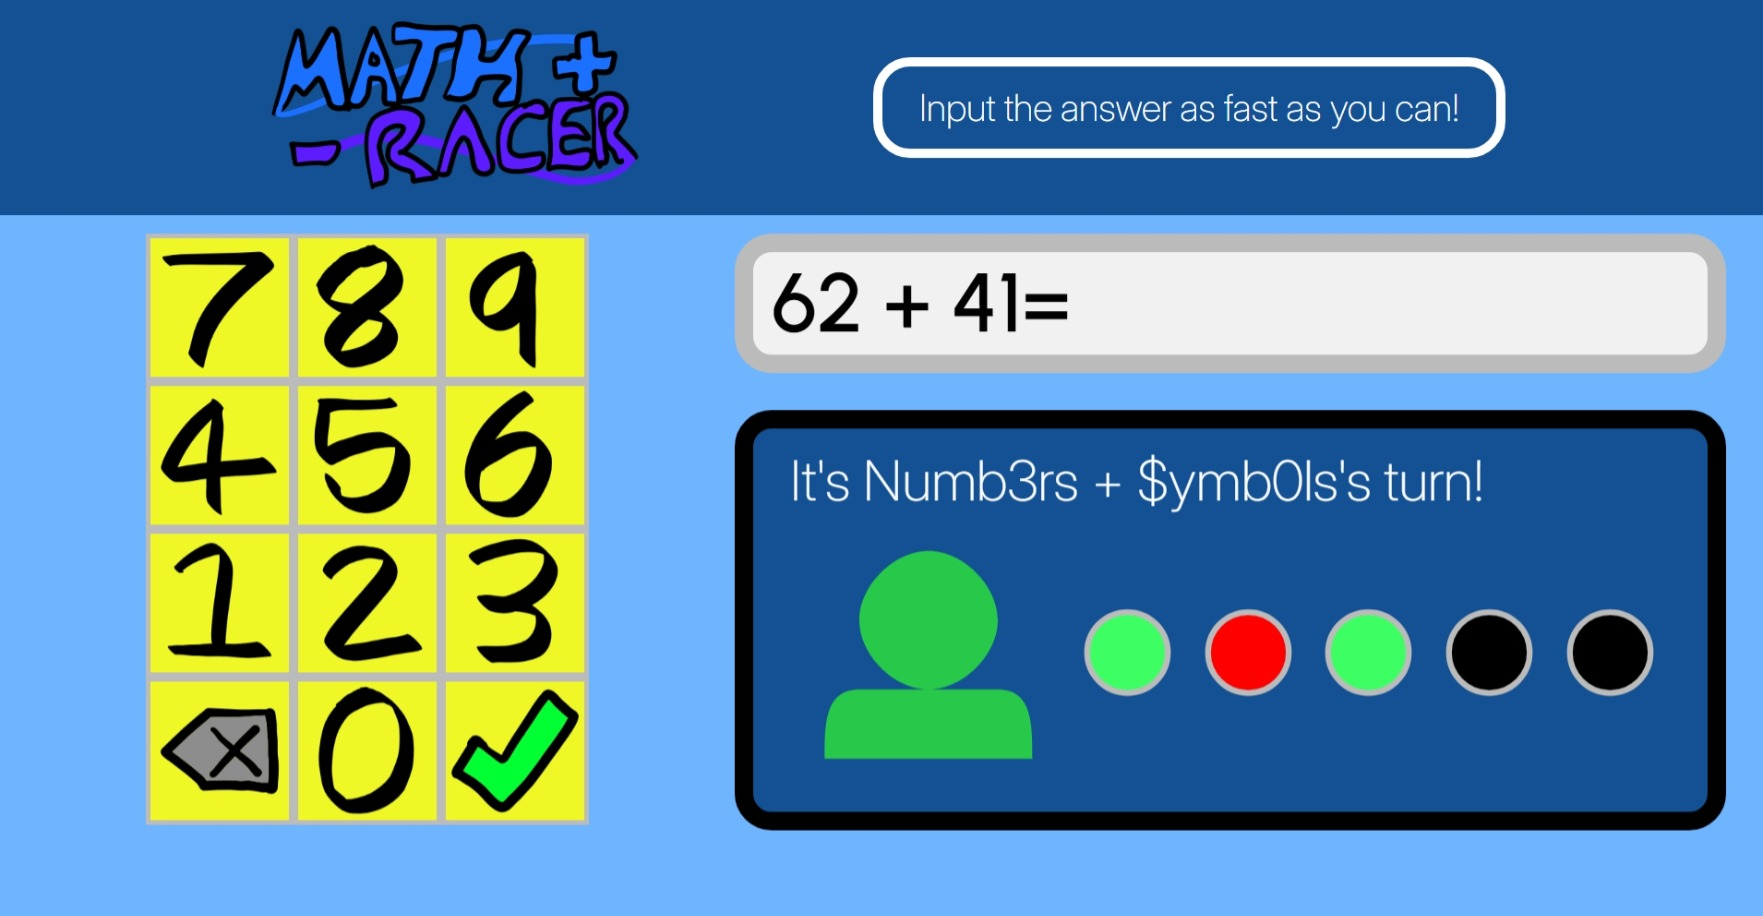
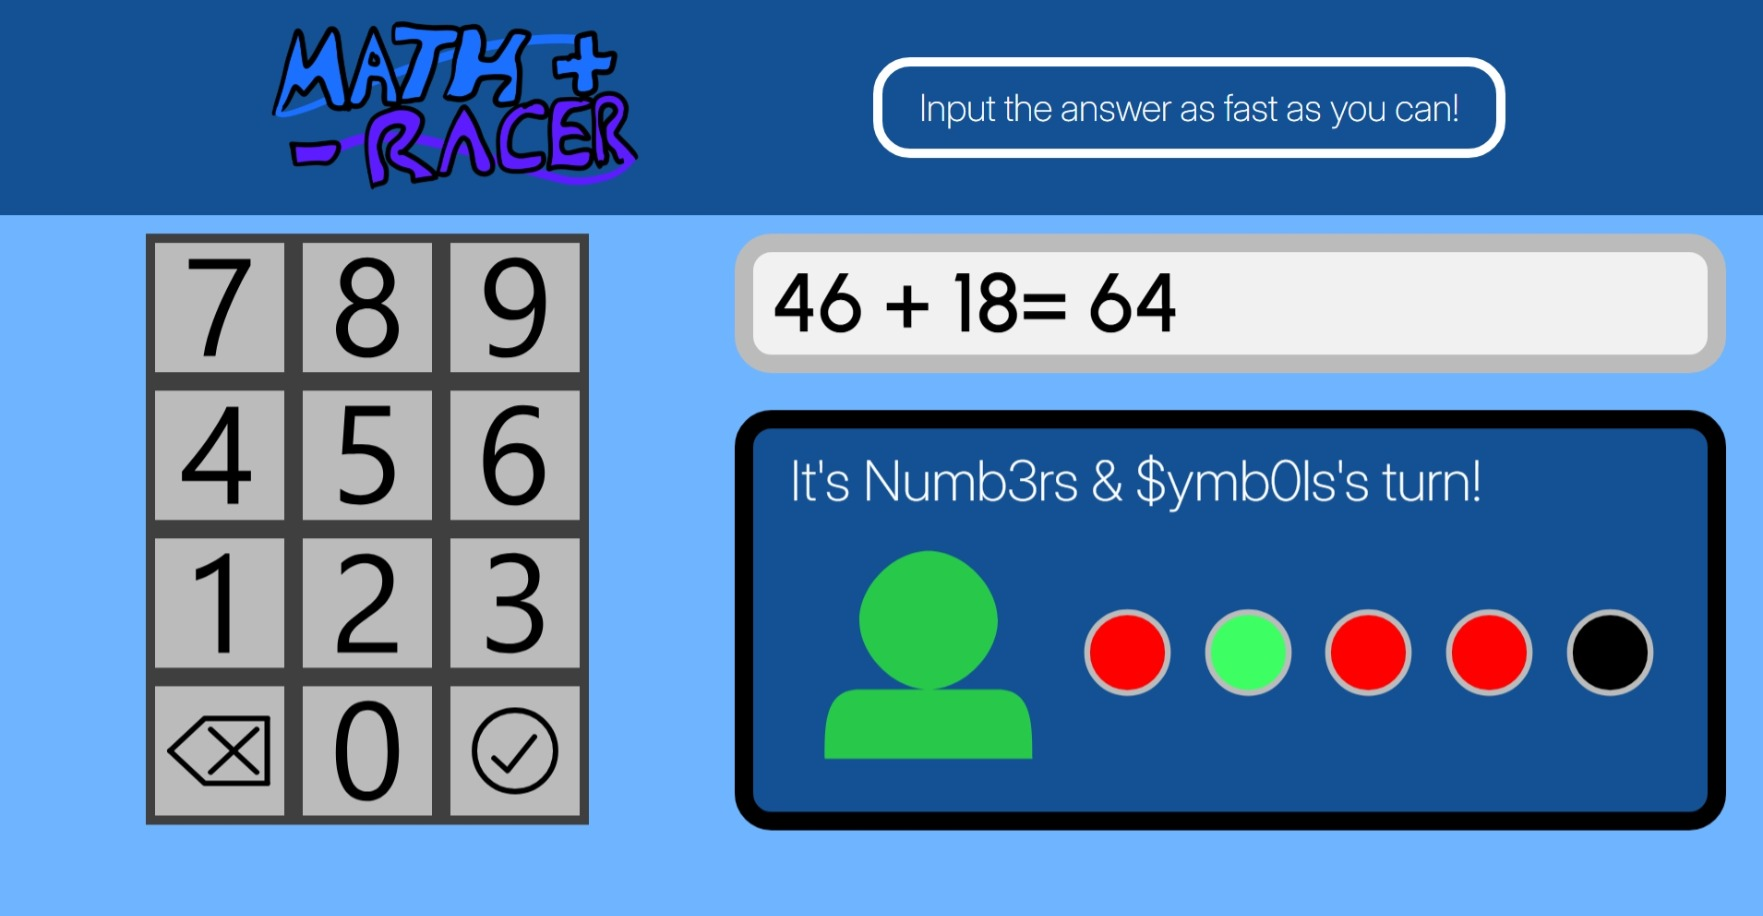
docs(readme): update README.md
update gameplay pictures to show new numpad look

diff --git a/README.md b/README.md
@@ -1,6 +1,6 @@
 # MathRacer
 
-Inspired by [TypeRacer](https://play.typeracer.com/), MathRacer is a fast-paced game where two players compete to answer several simple maths questions in the shortest time possible!
+Inspired by [TypeRacer](https://play.typeracer.com/), MathRacer is a fast-paced game where 2 - 4 players compete to answer several simple maths questions in the shortest time possible!
 
 Live demo link: https://j0e-quan.github.io/mathracer/
 
@@ -24,17 +24,18 @@ Live demo link: https://j0e-quan.github.io/mathracer/
 
 ## Credits:
 
-- Logo and numpad icons were drawn by me using Adobe Fresco
+- Logo was drawn by me using Adobe Fresco
+- Numpad numbers and icons were drawn by me using Affinity
 - Player icons were made by me using [Yann Armelin's SVG path editor](https://yqnn.github.io/svg-path-editor/)
 
 ## Gallery:
 
 ![picture showing initial state of the game](./readme-assets/initial.jpeg)
-![picture showing gameplay with 10 questions per round](./readme-assets/gameplay.jpeg)
+![picture showing gameplay with 10 questions per round](./readme-assets/gameplay-10q.jpeg)
 ![picture showing gameplay with 5 questions per round](./readme-assets/gameplay-5q.jpeg)
 ![picture showing results](./readme-assets/result.jpeg)
 ![picture showing the settings menu with a dark theme applied](./readme-assets/settings.jpeg)
-![picture showing the mobile version of the game layout](./readme-assets/mobile.jpeg)
+![picture showing the mobile version of the game layout with a light theme applied](./readme-assets/mobile.jpeg)
 
 ## Getting started:
 